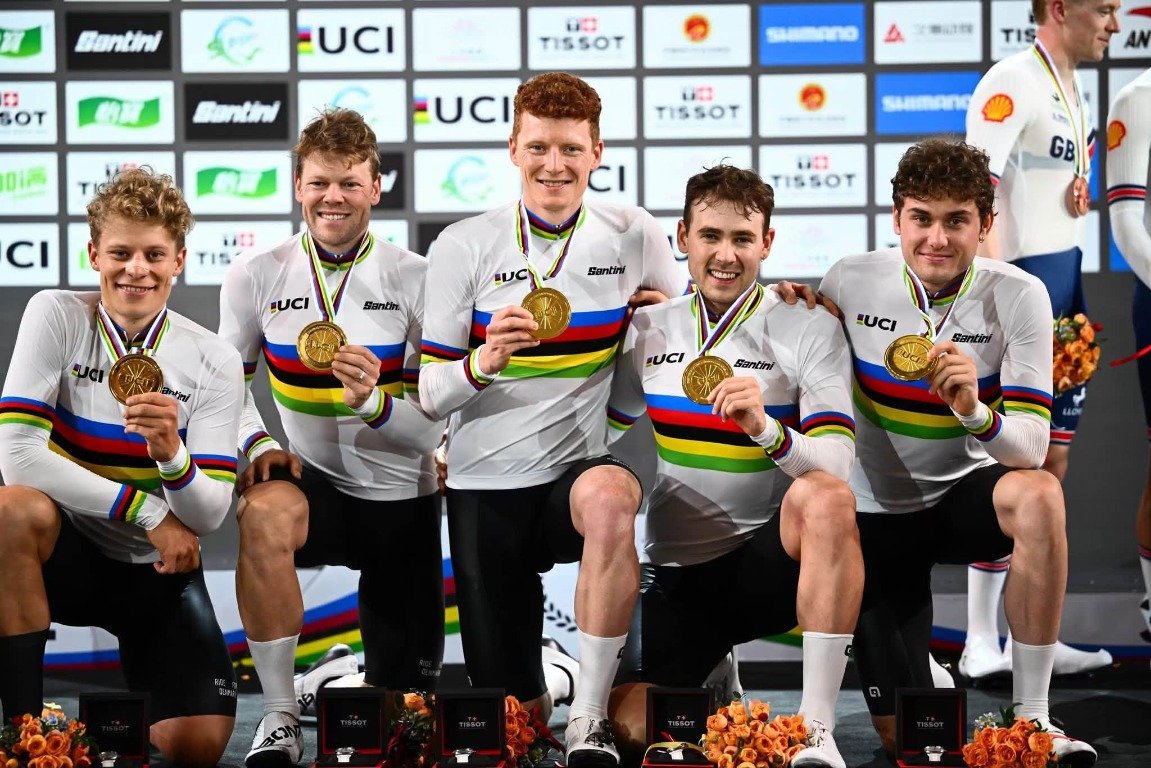
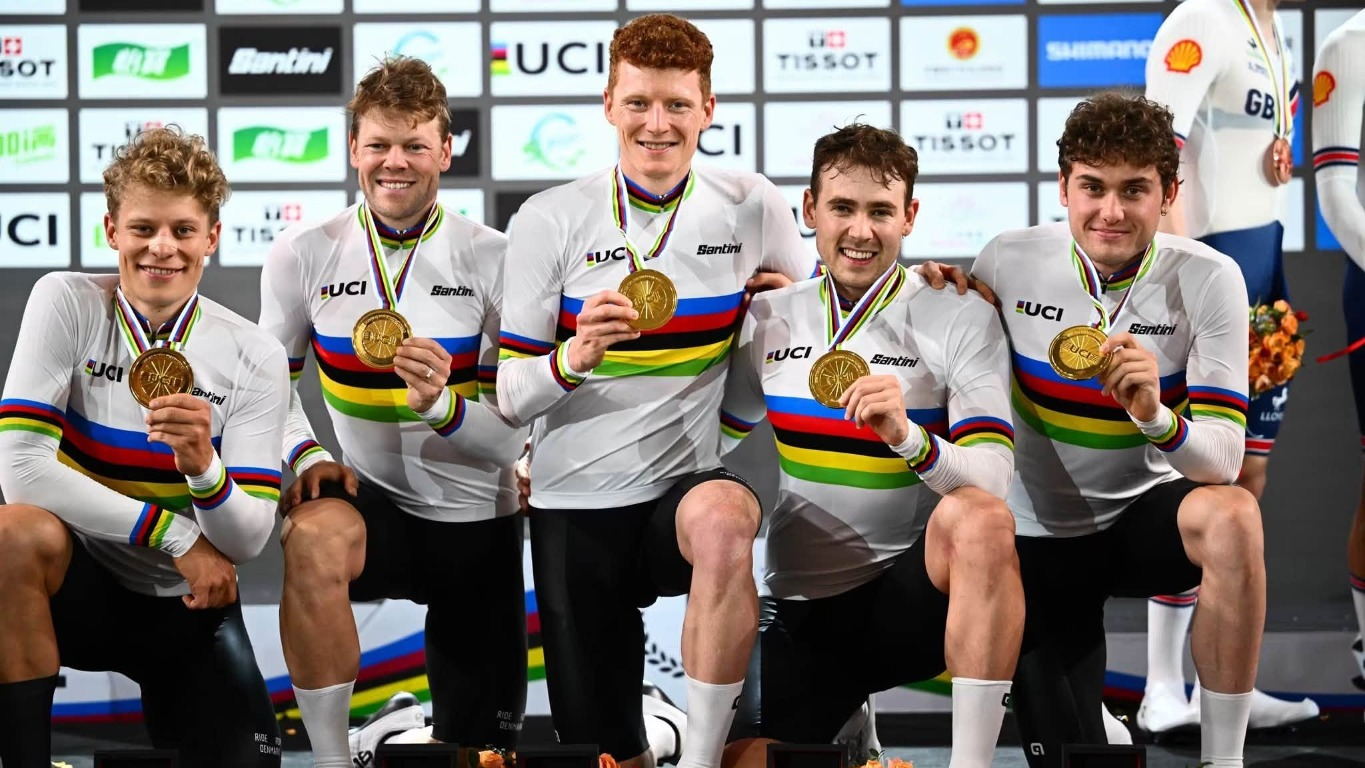
top

diff --git a/src/news.html b/src/news.html
@@ -61,6 +61,36 @@
             <div class="container">
                 <div class="news-articles-grid">
 
+                    <!-- Shanghai World Championships Article -->
+                    <article class="featured-news-card" id="shanghai-world-championships">
+                        <div class="featured-news-images">
+                            <div class="featured-news-image-small" style="background-image: url('images/WM_TP_2026_podium.jpg'); background-position: center center; background-size: cover;"></div>
+                            <div class="featured-news-image-small" style="background-image: url('images/WM_Madison_Podium2026.png'); background-position: center center; background-size: cover;"></div>
+                            <div class="featured-news-image-small" style="background-image: url('images/WM_TP_2026_jubel.jpg'); background-position: center center; background-size: cover;"></div>
+                            <div class="featured-news-image-small" style="background-image: url('images/Madison_WM_2026.png'); background-position: center center; background-size: cover;"></div>
+                            <div class="featured-news-image-small" style="background-image: url('images/Lund_WM_IP2026.jpg'); background-position: center center; background-size: cover;"></div>
+                        </div>
+                        <div class="featured-news-content">
+                            <span class="news-date featured-date">October 18, 2026</span>
+                            <h2 class="featured-news-title">Two World Titles and a Silver Medal for Denmark in Shanghai</h2>
+                            <p class="featured-news-excerpt">Our Track Team Denmark riders enjoyed an outstanding week at the UCI Track Cycling World Championships in Shanghai, China, bringing home two world titles and a silver medal. It was a highly successful championship and the perfect start to the Olympic qualification period for Los Angeles 2028.</p>
+                            <h3>Fourth Consecutive World Title in the Team Pursuit</h3>
+                            <p>The Danish men's team pursuit squad secured their fourth consecutive world title, continuing their remarkable dominance in the discipline. Lasse Norman Leth, Rasmus Lund and Frederik Rodenberg, together with Carl-Frederik Bevort and Tobias Aagaard, delivered three phenomenal rides before defeating long-standing rivals Italy in a commanding final.</p>
+                            <h3>Frederik Rodenberg Wins Silver</h3>
+                            <p>Frederik Rodenberg claimed silver in the individual pursuit after an outstanding qualifying ride in which he became the first Danish rider to break the four-minute barrier. He faced world-record holder Jonathan Milan in the final, ultimately finishing second after an impressive performance.</p>
+                            <p>Rasmus Lund also delivered a strong ride in qualifying before facing Italian star Filippo Ganna in the bronze-medal final. Despite a determined effort, Lund narrowly missed the podium.</p>
+                            <h3>Madison World Champions</h3>
+                            <p>Lasse Norman Leth and Carl-Frederik Bevort crowned Denmark's successful championships by winning the Madison world title on the last day. The pair delivered a phenomenal performance, building a commanding points advantage over their closest rivals to secure the rainbow jerseys.</p>
+                            <p>The victory was particularly special for Bevort, as it was his first international Madison appearance. Winning the world title alongside the experienced Leth made for an unforgettable debut.</p>
+                            <h3>All Eyes on LA 2028</h3>
+                            <p>Two world titles and a silver medal made Shanghai the perfect start to the Olympic qualification period. The journey to Los Angeles has begun in the best possible way.</p>
+                            <div class="news-meta">
+                                <span class="news-author">By Track Team Denmark</span>
+                                <span class="news-category">Race Results</span>
+                            </div>
+                        </div>
+                    </article>
+
                     <!-- Prostějov Article -->
                     <article class="featured-news-card" id="prostejov-results">
                         <div class="featured-news-images">
@@ -83,35 +113,6 @@
                         </div>
                     </article>
 
-                    <!-- Shanghai World Championships Article -->
-                    <article class="featured-news-card" id="shanghai-world-championships">
-                        <div class="featured-news-images">
-                            <div class="featured-news-image-small" style="background-image: url('images/WM_TP_2026_podium.jpg'); background-position: center center; background-size: cover;"></div>
-                            <div class="featured-news-image-small" style="background-image: url('images/WM_Madison_Podium2026.png'); background-position: center center; background-size: cover;"></div>
-                            <div class="featured-news-image-small" style="background-image: url('images/WM_Rodenberg_IP2026.jpg'); background-position: center center; background-size: cover;"></div>
-                            <div class="featured-news-image-small" style="background-image: url('images/WM_TP_2026_jubel.jpg'); background-position: center center; background-size: cover;"></div>
-                            <div class="featured-news-image-small" style="background-image: url('images/Madison_WM_2026.png'); background-position: center center; background-size: cover;"></div>
-                        </div>
-                        <div class="featured-news-content">
-                            <span class="news-date featured-date">October 18, 2026</span>
-                            <h2 class="featured-news-title">Two World Titles and a Silver Medal for Denmark in Shanghai</h2>
-                            <p class="featured-news-excerpt">Our Track Team Denmark riders enjoyed an outstanding week at the UCI Track Cycling World Championships in Shanghai, China, bringing home two world titles and a silver medal. It was a highly successful championship and the perfect start to the Olympic qualification period for Los Angeles 2028.</p>
-                            <h3>Fourth Consecutive World Title in the Team Pursuit</h3>
-                            <p>The Danish men's team pursuit squad secured their fourth consecutive world title, continuing their remarkable dominance in the discipline. Lasse Norman Leth, Rasmus Lund and Frederik Rodenberg, together with Carl-Frederik Bevort and Tobias Aagaard, delivered three phenomenal rides before defeating long-standing rivals Italy in a commanding final.</p>
-                            <h3>Frederik Rodenberg Wins Silver</h3>
-                            <p>Frederik Rodenberg claimed silver in the individual pursuit after an outstanding qualifying ride in which he became the first Danish rider to break the four-minute barrier. He faced world-record holder Jonathan Milan in the final, ultimately finishing second after an impressive performance.</p>
-                            <p>Rasmus Lund also delivered a strong ride in qualifying before facing Italian star Filippo Ganna in the bronze-medal final. Despite a determined effort, Lund narrowly missed the podium.</p>
-                            <h3>Madison World Champions</h3>
-                            <p>Lasse Norman Leth and Carl-Frederik Bevort crowned Denmark's successful championships by winning the Madison world title on the last day. The pair delivered a phenomenal performance, building a commanding points advantage over their closest rivals to secure the rainbow jerseys.</p>
-                            <p>The victory was particularly special for Bevort, as it was his first international Madison appearance. Winning the world title alongside the experienced Leth made for an unforgettable debut.</p>
-                            <h3>All Eyes on LA 2028</h3>
-                            <p>Two world titles and a silver medal made Shanghai the perfect start to the Olympic qualification period. The journey to Los Angeles has begun in the best possible way.</p>
-                            <div class="news-meta">
-                                <span class="news-author">By Track Team Denmark</span>
-                                <span class="news-category">Race Results</span>
-                            </div>
-                        </div>
-                    </article>
 
                     <!-- German Bahnen-Tournee Article -->
                     <article class="featured-news-card" id="german-bahnen-tournee">

diff --git a/src/index.html b/src/index.html
@@ -68,13 +68,13 @@
             </div>
             <div class="news-overlay-content">
                 <!-- News Item -->
-                <article class="news-item" data-news-id="prostejov-results">
-                    <span class="news-item-date">Oct 22</span>
-                    <h4 class="news-item-title">Strong Results for Track Team Denmark in Prostějov</h4>
-                </article>
                 <article class="news-item" data-news-id="shanghai-world-championships">
                     <span class="news-item-date">Oct 18</span>
                     <h4 class="news-item-title">Two World Titles and a Silver Medal for Denmark in Shanghai</h4>
+                </article>
+                <article class="news-item" data-news-id="prostejov-results">
+                    <span class="news-item-date">Oct 22</span>
+                    <h4 class="news-item-title">6 UCI podiums in Prostějov</h4>
                 </article>
                 <article class="news-item" data-news-id="german-bahnen-tournee">
                     <span class="news-item-date">Jun 29</span>

diff --git a/src/app.js b/src/app.js
@@ -383,7 +383,7 @@ document.addEventListener('DOMContentLoaded', () => {
 
     const newsModalEntries = {
         'shanghai-world-championships': {
-            image: 'images/Worldrecord26.jpg',
+            image: 'images/WM_TP_2026_jubel.jpg',
             imagePosition: 'center top',
             badge: 'WORLD CHAMPIONSHIPS',
             title: 'Two World Titles and a Silver Medal for Denmark in Shanghai',

diff --git a/src/styles.css b/src/styles.css
@@ -87,7 +87,7 @@ h2 {
 }
 
 h3 {
-    font-size: 1.5rem;
+    font-size: 1.2rem;
 }
 
 p {
@@ -1712,7 +1712,7 @@ img {
 }
 
 .featured-news-title {
-    font-size: 2.5rem;
+    font-size: 2rem;
     font-weight: 700;
     color: var(--color-text-dark);
     margin-bottom: var(--space-lg);
